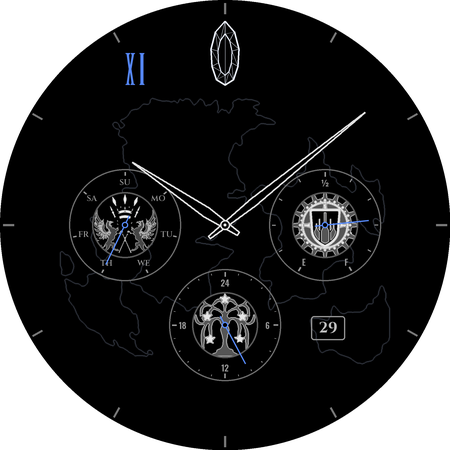
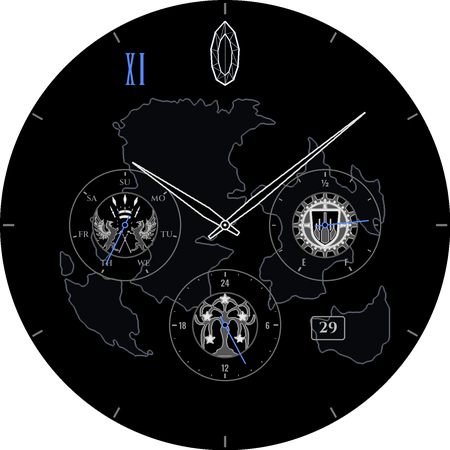
Watch face: brighter world map in the Dark style
Lighter outline plus a faint land fill so Vana'diel reads on black.

Claude-Session: https://claude.ai/code/session_01DhcV9kAg7FMXufVfZQP7Ta

diff --git a/ffxi-watchface/tools/generate_assets.py b/ffxi-watchface/tools/generate_assets.py
@@ -436,7 +436,7 @@ def make_dial(ambient=False, bright=0.6):
     if ambient:
         img = Image.new('RGBA', size, (0, 0, 0, 255))
         if bright >= 1:   # Dark style only; always-on stays plain black
-            draw_world(img, (0, 0, 0, 0), (70, 76, 90, 255), width=0.8)
+            draw_world(img, (40, 46, 60, 50), (120, 128, 146, 255), width=0.9)
     else:
         img = sunburst(size)
         draw_world(img, (200, 215, 255, 14), (200, 215, 255, 46))
